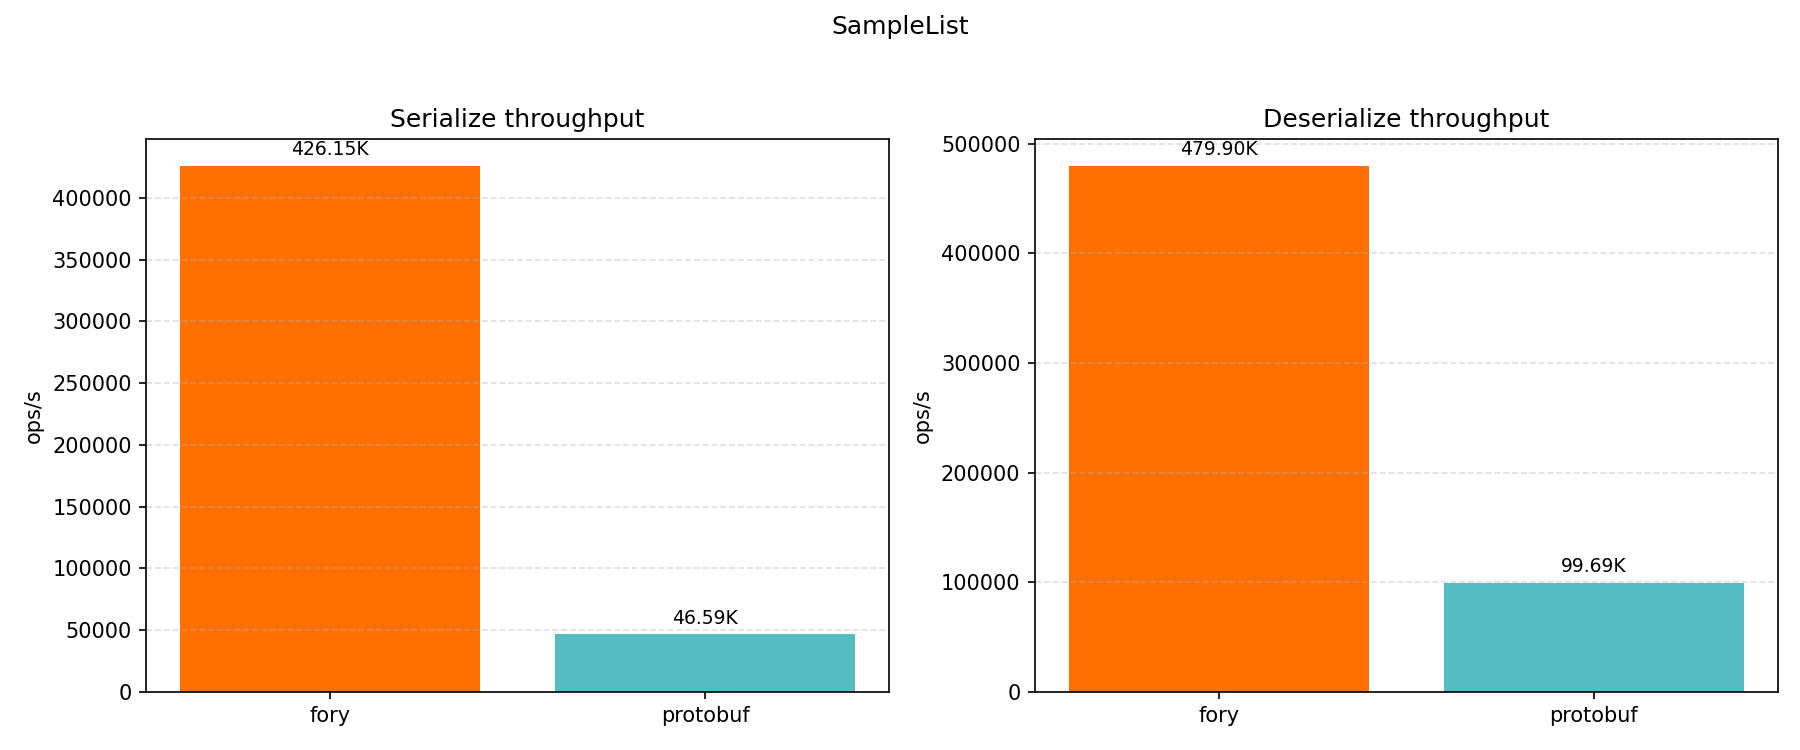
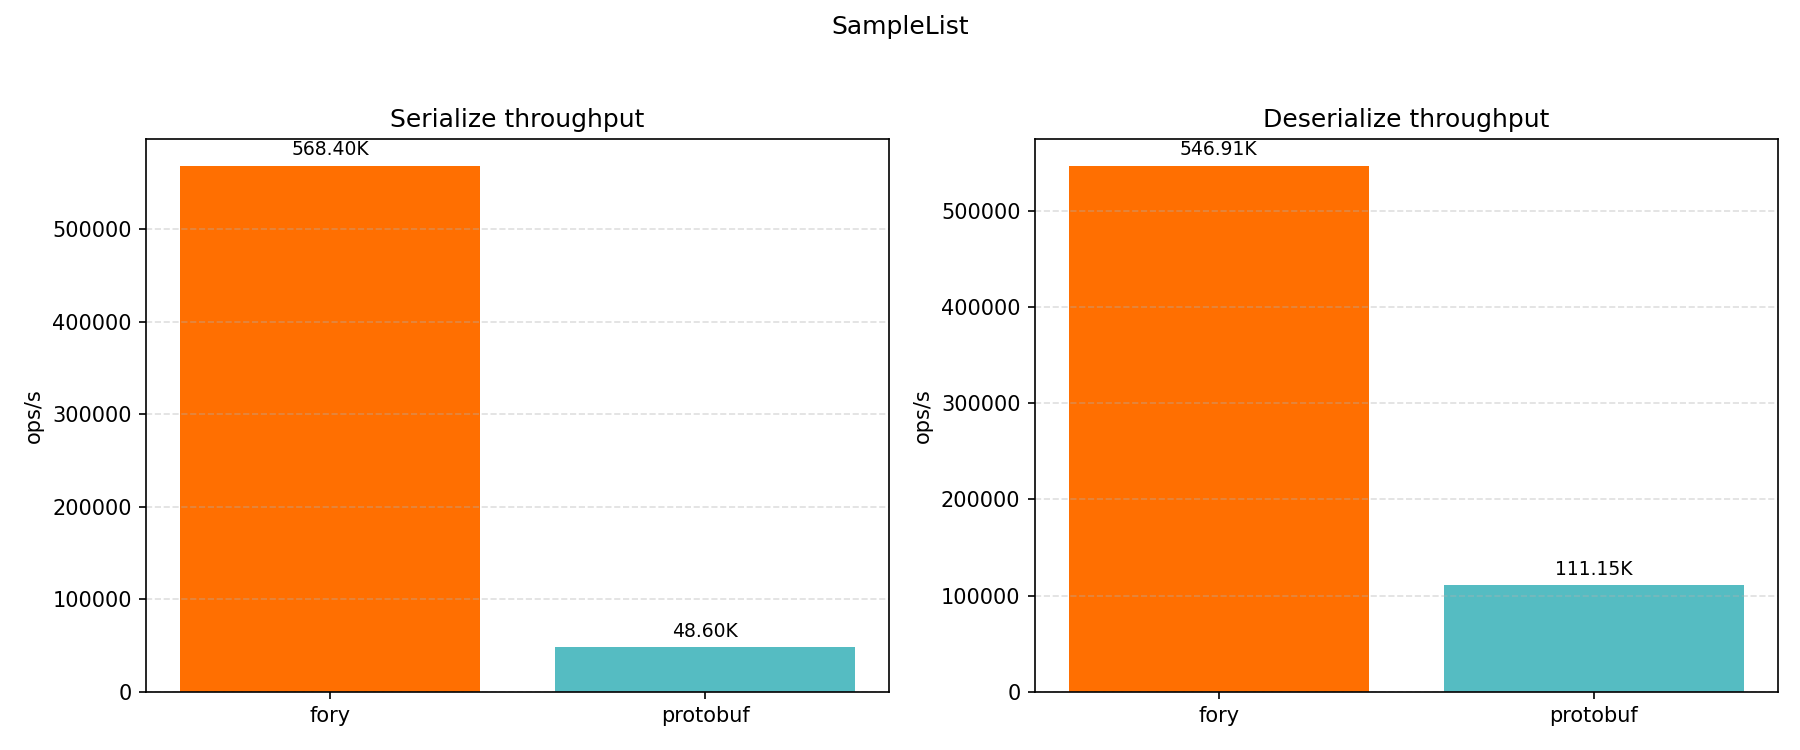
🔄 synced local 'docs/benchmarks/' with remote 'docs/benchmarks/'

diff --git a/docs/benchmarks/dart/README.md b/docs/benchmarks/dart/README.md
@@ -4,47 +4,47 @@ This benchmark compares serialization and deserialization throughput for Apache 
 
 ## Hardware and Runtime Info
 
-| Key                   | Value                                                            |
-| --------------------- | ---------------------------------------------------------------- |
-| Timestamp             | 2026-04-23T12:21:28Z                                             |
-| OS                    | Version 26.2 (Build 25C56)                                       |
-| Host                  | Macbook-Air.local                                                |
-| CPU Cores (Logical)   | 8                                                                |
-| Memory (GB)           | 8.00                                                             |
-| Dart                  | 3.10.4 (stable) (Tue Dec 9 00:01:55 2025 -0800) on "macos_arm64" |
-| Samples per case      | 5                                                                |
-| Warmup per case (s)   | 1.0                                                              |
-| Duration per case (s) | 1.5                                                              |
+| Key                   | Value                                                             |
+| --------------------- | ----------------------------------------------------------------- |
+| Timestamp             | 2026-05-07T09:12:52.301869Z                                       |
+| OS                    | Version 15.7.2 (Build 24G325)                                     |
+| Host                  | MacBook-Pro.local                                                 |
+| CPU Cores (Logical)   | 12                                                                |
+| Memory (GB)           | 48.00                                                             |
+| Dart                  | 3.10.7 (stable) (Tue Dec 23 00:01:57 2025 -0800) on "macos_arm64" |
+| Samples per case      | 5                                                                 |
+| Warmup per case (s)   | 1.0                                                               |
+| Duration per case (s) | 1.5                                                               |
 
 ## Throughput Results
 
 ![Throughput](throughput.png)
 
-| Datatype         | Operation   |  Fory TPS | Protobuf TPS | Fastest      |
-| ---------------- | ----------- | --------: | -----------: | ------------ |
-| Struct           | Serialize   | 4,696,615 |    1,998,625 | fory (2.35x) |
-| Struct           | Deserialize | 5,815,245 |    4,173,568 | fory (1.39x) |
-| Sample           | Serialize   | 1,744,871 |      481,801 | fory (3.62x) |
-| Sample           | Deserialize | 2,007,877 |      780,317 | fory (2.57x) |
-| MediaContent     | Serialize   |   944,111 |      398,324 | fory (2.37x) |
-| MediaContent     | Deserialize | 1,457,065 |      675,724 | fory (2.16x) |
-| StructList       | Serialize   | 1,981,716 |      351,853 | fory (5.63x) |
-| StructList       | Deserialize | 2,261,436 |      596,027 | fory (3.79x) |
-| SampleList       | Serialize   |   426,153 |       46,590 | fory (9.15x) |
-| SampleList       | Deserialize |   479,900 |       99,694 | fory (4.81x) |
-| MediaContentList | Serialize   |   220,342 |       76,330 | fory (2.89x) |
-| MediaContentList | Deserialize |   341,839 |      131,730 | fory (2.60x) |
+| Datatype         | Operation   |   Fory TPS | Protobuf TPS | Fastest       |
+| ---------------- | ----------- | ---------: | -----------: | ------------- |
+| Struct           | Serialize   |  9,631,226 |    2,134,738 | fory (4.51x)  |
+| Struct           | Deserialize | 10,449,715 |    4,968,658 | fory (2.10x)  |
+| Sample           | Serialize   |  2,468,767 |      536,410 | fory (4.60x)  |
+| Sample           | Deserialize |  2,393,903 |      901,767 | fory (2.65x)  |
+| MediaContent     | Serialize   |  1,162,191 |      431,591 | fory (2.69x)  |
+| MediaContent     | Deserialize |  2,005,785 |      767,396 | fory (2.61x)  |
+| StructList       | Serialize   |  2,851,755 |      374,020 | fory (7.62x)  |
+| StructList       | Deserialize |  3,768,194 |      740,750 | fory (5.09x)  |
+| SampleList       | Serialize   |    568,405 |       48,603 | fory (11.69x) |
+| SampleList       | Deserialize |    546,914 |      111,151 | fory (4.92x)  |
+| MediaContentList | Serialize   |    270,092 |       83,028 | fory (3.25x)  |
+| MediaContentList | Deserialize |    454,291 |      149,294 | fory (3.04x)  |
 
 ## Serialized Size (bytes)
 
 | Datatype         | Fory | Protobuf |
 | ---------------- | ---: | -------: |
-| Struct           |   58 |       61 |
-| Sample           |  446 |      377 |
-| MediaContent     |  365 |      307 |
-| StructList       |  184 |      315 |
-| SampleList       | 1980 |     1900 |
-| MediaContentList | 1535 |     1550 |
+| Struct           |   57 |       61 |
+| Sample           |  445 |      377 |
+| MediaContent     |  362 |      307 |
+| StructList       |  182 |      315 |
+| SampleList       | 1978 |     1900 |
+| MediaContentList | 1531 |     1550 |
 
 ## Per-workload Plots
 
